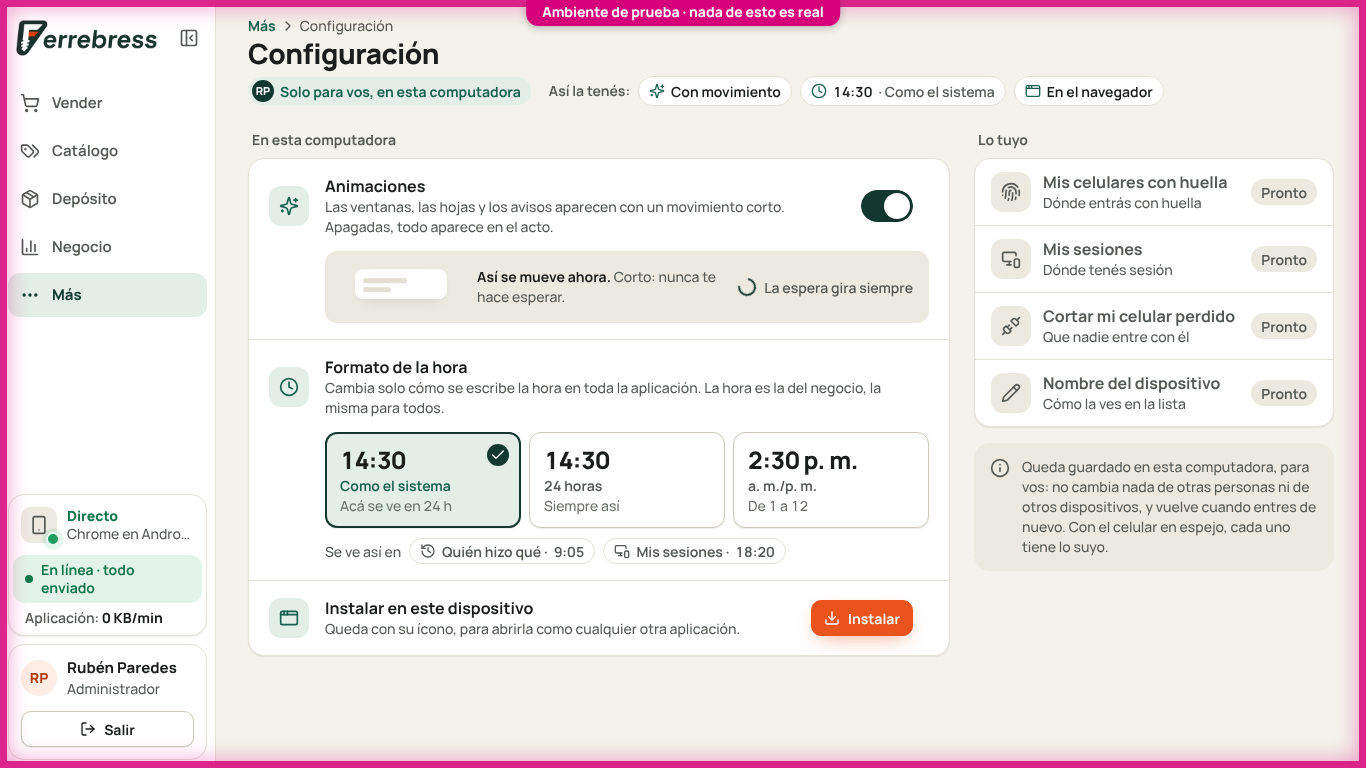
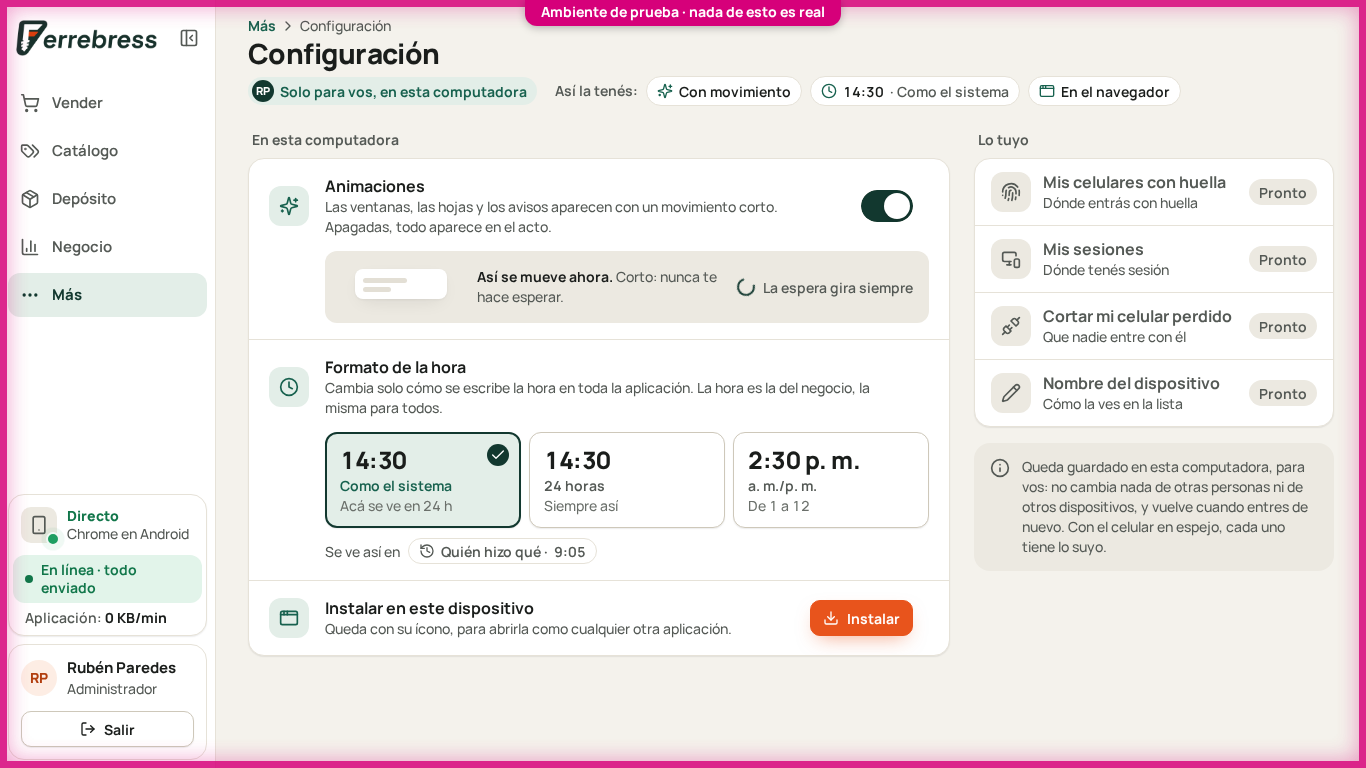
04a paso 2: los cambios de Carlos en la maqueta final de Configuración
Con «reducir movimiento», el resumen dice lo que pasa y la llave se puede tocar;
«Se ve así en» muestra solo Quién hizo qué.

Claude-Session: https://claude.ai/code/session_01BmbhiYJAfQvWshUgYzn7JL

diff --git a/docs/design/mockups/device-settings-a/final/settings.js b/docs/design/mockups/device-settings-a/final/settings.js
@@ -121,10 +121,10 @@
     var p = DS.prefs, c = DS.casos, quiet = c.sistemaQuieto, chico = celu();
     document.body.classList.toggle("quieto", !animando());
 
-    // Animaciones: la llave dice lo elegido; si el sistema pide no animar, no se toca y lo dice (R2.3)
+    // Animaciones: la llave dice lo elegido y se puede tocar siempre; si el sistema pide no animar,
+    // lo elegido queda guardado para cuando lo saque, y el aviso dice que manda el sistema (R2.3)
     var ll = $("[data-pref=anim]");
     ll.setAttribute("aria-checked", p.anim ? "true" : "false");
-    ll.disabled = quiet;
     var mu = $("[data-muestra]");
     mu.classList.toggle("en-el-acto", !p.anim && !quiet);
     mu.classList.toggle("quieta", quiet);
@@ -164,13 +164,14 @@
     var conOff = chico && !filaOff.hidden;
     $("[data-grupo-final]").hidden = filaInst.hidden && !conOff;
 
-    // «Así la tenés» (R1.10): lo elegido en cada preferencia de este dispositivo
+    // «Así la tenés» (R1.10): cómo está cada preferencia de este dispositivo. Las animaciones dicen
+    // lo que pasa de verdad: con el sistema pidiendo no animar, «En el acto» aunque estén prendidas
     var tag = chico ? "button" : "span";
     function pastilla(va, icono, html) {
       return "<" + tag + (chico ? ' type="button" data-va="' + va + '"' : "") + ' class="pastilla asi-pastilla"><i class="i i-s" data-i="' + icono + '"></i>' + html + "</" + tag + ">";
     }
     $("[data-asi]").innerHTML =
-      pastilla("anim", "sparkles", p.anim ? "Con movimiento" : "En el acto") +
+      pastilla("anim", "sparkles", animando() ? "Con movimiento" : "En el acto") +
       pastilla("hora", "clock", '<span data-hora="app"></span>' + (chico ? "" : '<span class="tipo">· ' + NOMBRE_HORA[p.hora] + "</span>")) +
       (filaInst.hidden ? "" : pastilla("instalar", "app-window", ci === "navegador" ? "Instalada" : chico ? "Navegador" : "En el navegador")) +
       (conOff ? pastilla("offline", "wifi-off", p.offline ? "También sin conexión" : "Solo con internet") : "");

diff --git a/docs/design/mockups/device-settings-a/final/index.html b/docs/design/mockups/device-settings-a/final/index.html
@@ -99,7 +99,6 @@
                 </div>
                 <div class="donde-se-ve solo-compu">Se ve así en
                   <span class="pastilla contorno"><i class="i i-s" data-i="history"></i>Quién hizo qué · <span data-hora="app" data-a="9:05"></span></span>
-                  <span class="pastilla contorno"><i class="i i-s" data-i="monitor-smartphone"></i>Mis sesiones · <span data-hora="app" data-a="18:20"></span></span>
                 </div>
               </div>
             </div>

diff --git a/docs/design/mockups/device-settings-a/final/changes.md b/docs/design/mockups/device-settings-a/final/changes.md
@@ -7,7 +7,7 @@ depende de las variantes: `settings.css`, `settings.js` e `icons-extra.js` son c
 cambios de abajo. El marco es el de las otras finales (`../../users-who-did-what/final/`).
 
 Todo lo que no figura acá es igual a lo del director: la lista con un renglón por preferencia, la
-muestra viva de las animaciones, las tres horas escritas con la hora de ahora, «Se ve así en», el
+muestra viva de las animaciones, las tres horas escritas con la hora de ahora, el
 renglón de instalar que cambia según el navegador, «Lo tuyo» con «Pronto», la nota de lo guardado y
 el botón «Casos» (no es parte del diseño).
 
@@ -16,7 +16,8 @@ Capturas:
 - `screenshot-changed.png` y `screenshot-phone-changed.png`: animaciones apagadas y «a. m./p. m.»
   (en el celular, también «Trabajar sin conexión» prendida), con «Volver a como viene».
 - `screenshot-alt.png`: con Alt apretado.
-- `screenshot-system-quiet.png`: el sistema pide no animar.
+- `screenshot-system-quiet.png`: el sistema pide no animar, con las animaciones prendidas: la llave
+  dice lo elegido y el resumen, «En el acto».
 - `screenshot-installed.png`: ya instalada, abierta en el navegador.
 - `screenshot-install-ask.png` y `screenshot-phone-install-ask.png`: el pedido del navegador.
 - `screenshot-phone-no-fingerprint.png`: iPhone y «Trabajar sin conexión» sin la huella.
@@ -36,6 +37,14 @@ Capturas:
   - En el celular, a la derecha del título, con el texto corto «Como viene» (00 · R3.2). En la 2 iba
     al final de las pastillas, en una línea que no se desplaza: con tres pastillas no entraba.
   - Su tecla es Alt O, no Alt V como en la 2: V es Vender en el menú (00 · R2.10).
+- **Con «reducir movimiento» del sistema, «Así la tenés» dice lo que pasa de verdad:** «En el acto»,
+  aunque las animaciones estén prendidas. Lo elegido lo dice la llave.
+- **Con «reducir movimiento» del sistema, la llave de Animaciones se puede tocar** (también con
+  Alt A): guarda lo elegido, que vale el día que se saque el «reducir movimiento». El aviso «Este
+  dispositivo ya pide no animar. Manda el sistema…» sigue debajo, y la muestra sigue quieta. En la
+  variante la llave quedaba apagada (R2.3: la opción lo dice y la aplicación no le pasa por encima).
+- **«Se ve así en» muestra solo Quién hizo qué:** la variante sumaba Mis sesiones, que es de la
+  etapa b y en la pantalla está con «Pronto» (R1.8).
 - **La frase de la cabecera pasó a la nota de lo guardado:** «Lo que elijas acá no cambia nada de
   otras personas ni de otros dispositivos» estaba al lado de «Solo para vos», donde ahora va el
   resumen. La nota del costado dice ahora «Queda guardado en esta computadora, para vos: no cambia
@@ -49,8 +58,8 @@ Capturas:
   lo tenía.
 - **Con «reducir movimiento» del sistema, la llave dice lo elegido** (R2.3: «no hay animaciones
   aunque la opción esté prendida»). En la variante quedaba apagada; ahora queda como la dejó la
-  persona, sin poder tocarla, con el aviso debajo. La muestra se queda quieta, con todo a la vista
-  (en la variante parpadeaba por pasos). El resumen dice lo elegido.
+  persona, con el aviso debajo. La muestra se queda quieta, con todo a la vista (en la variante
+  parpadeaba por pasos).
 - **Las teclas se ven solo mientras Alt está apretado** (00 · R2.9): la variante las mostraba
   siempre. Son las de la variante (Alt A, Alt H, Alt I), más Alt O («Volver a como viene») y Alt L
   (el indicador del vínculo, como en las otras finales).
@@ -107,4 +116,5 @@ Capturas:
 - La regla está en `settings.js`:
   - `comoViene()`: «Volver a como viene» aparece si las animaciones están apagadas o la hora no está
     en «Como el sistema».
-  - `animando()`: hay animaciones si están prendidas y el sistema no pide no animar.
+  - `animando()`: hay animaciones si están prendidas y el sistema no pide no animar. Es lo que dice
+    «Así la tenés»; la llave dice `prefs.anim`, lo elegido.
